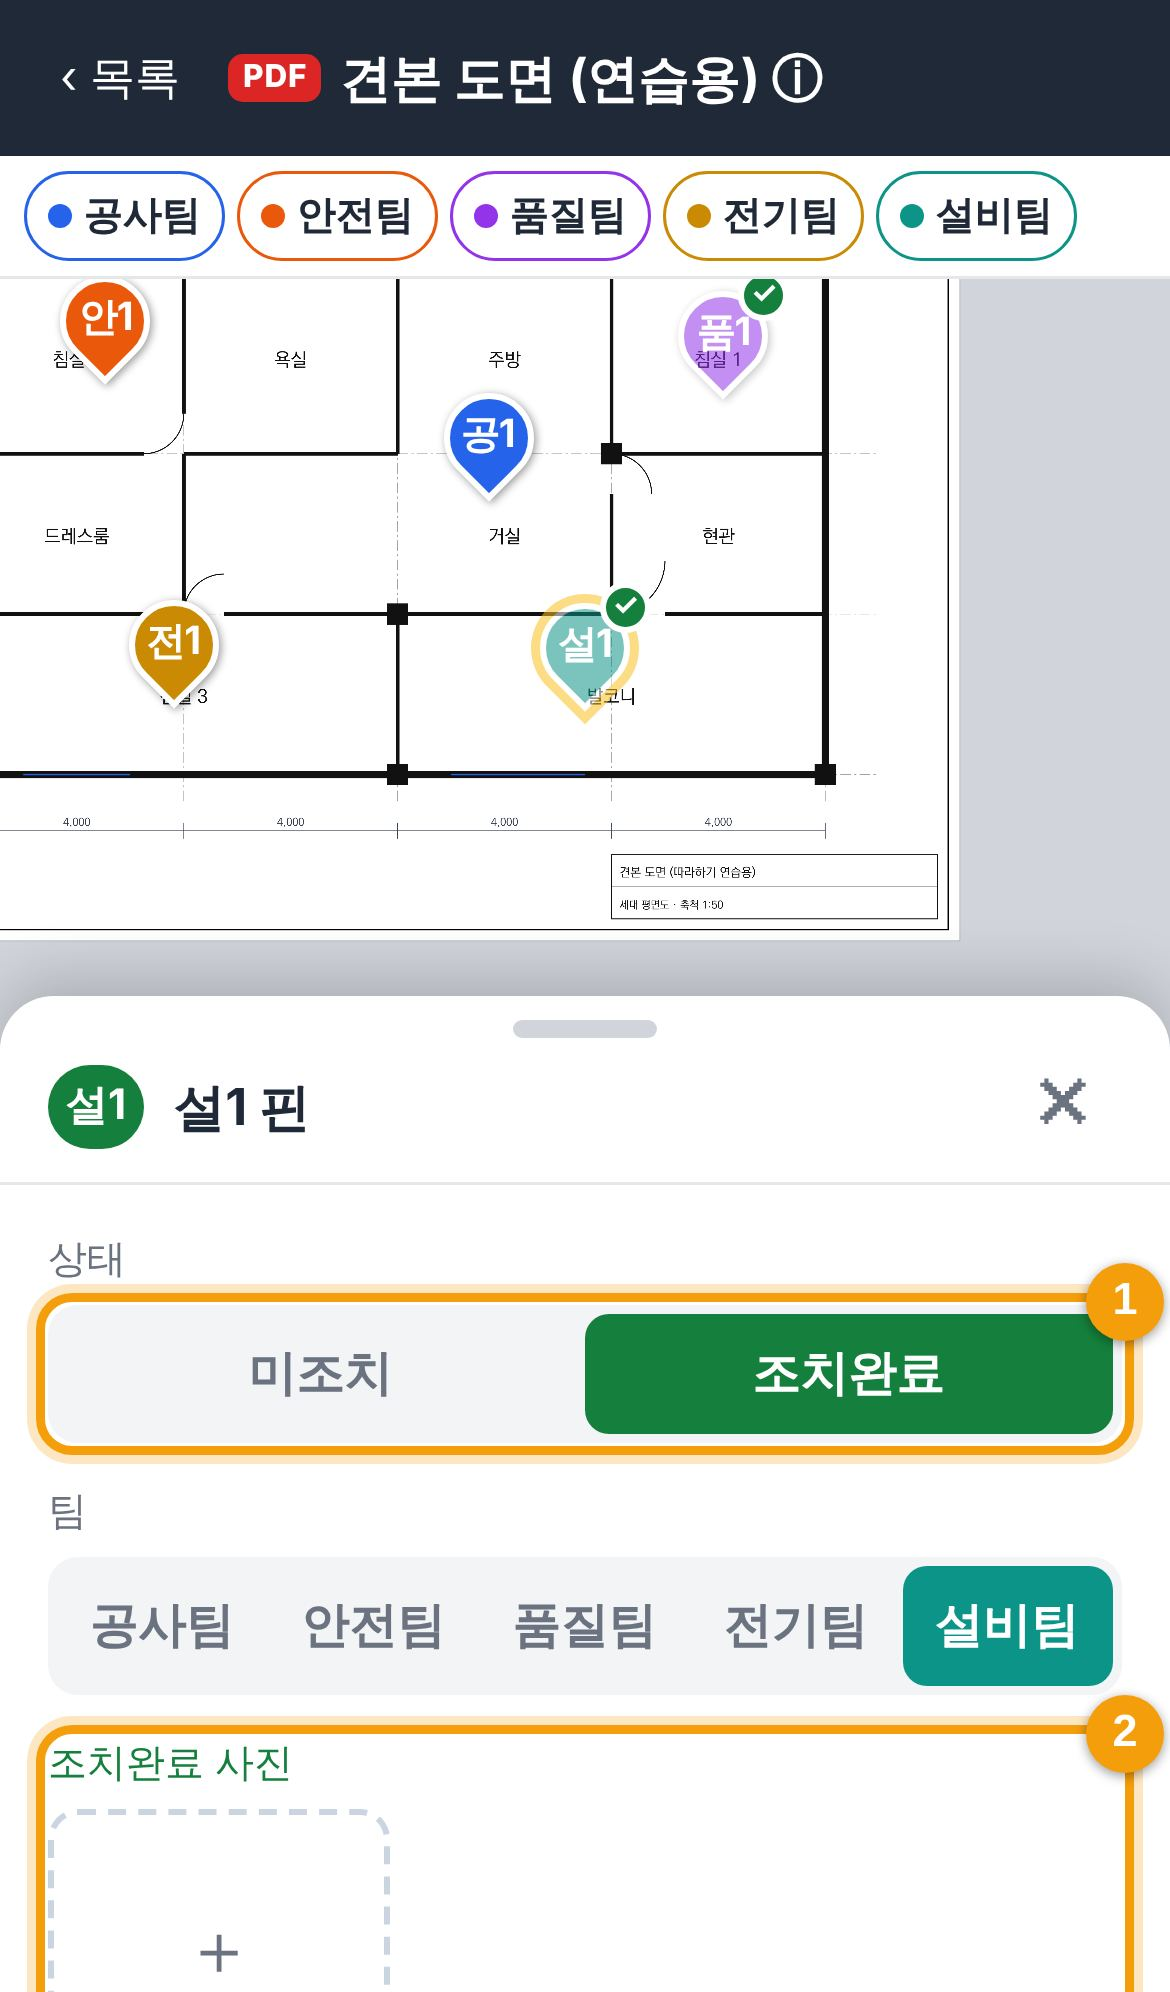
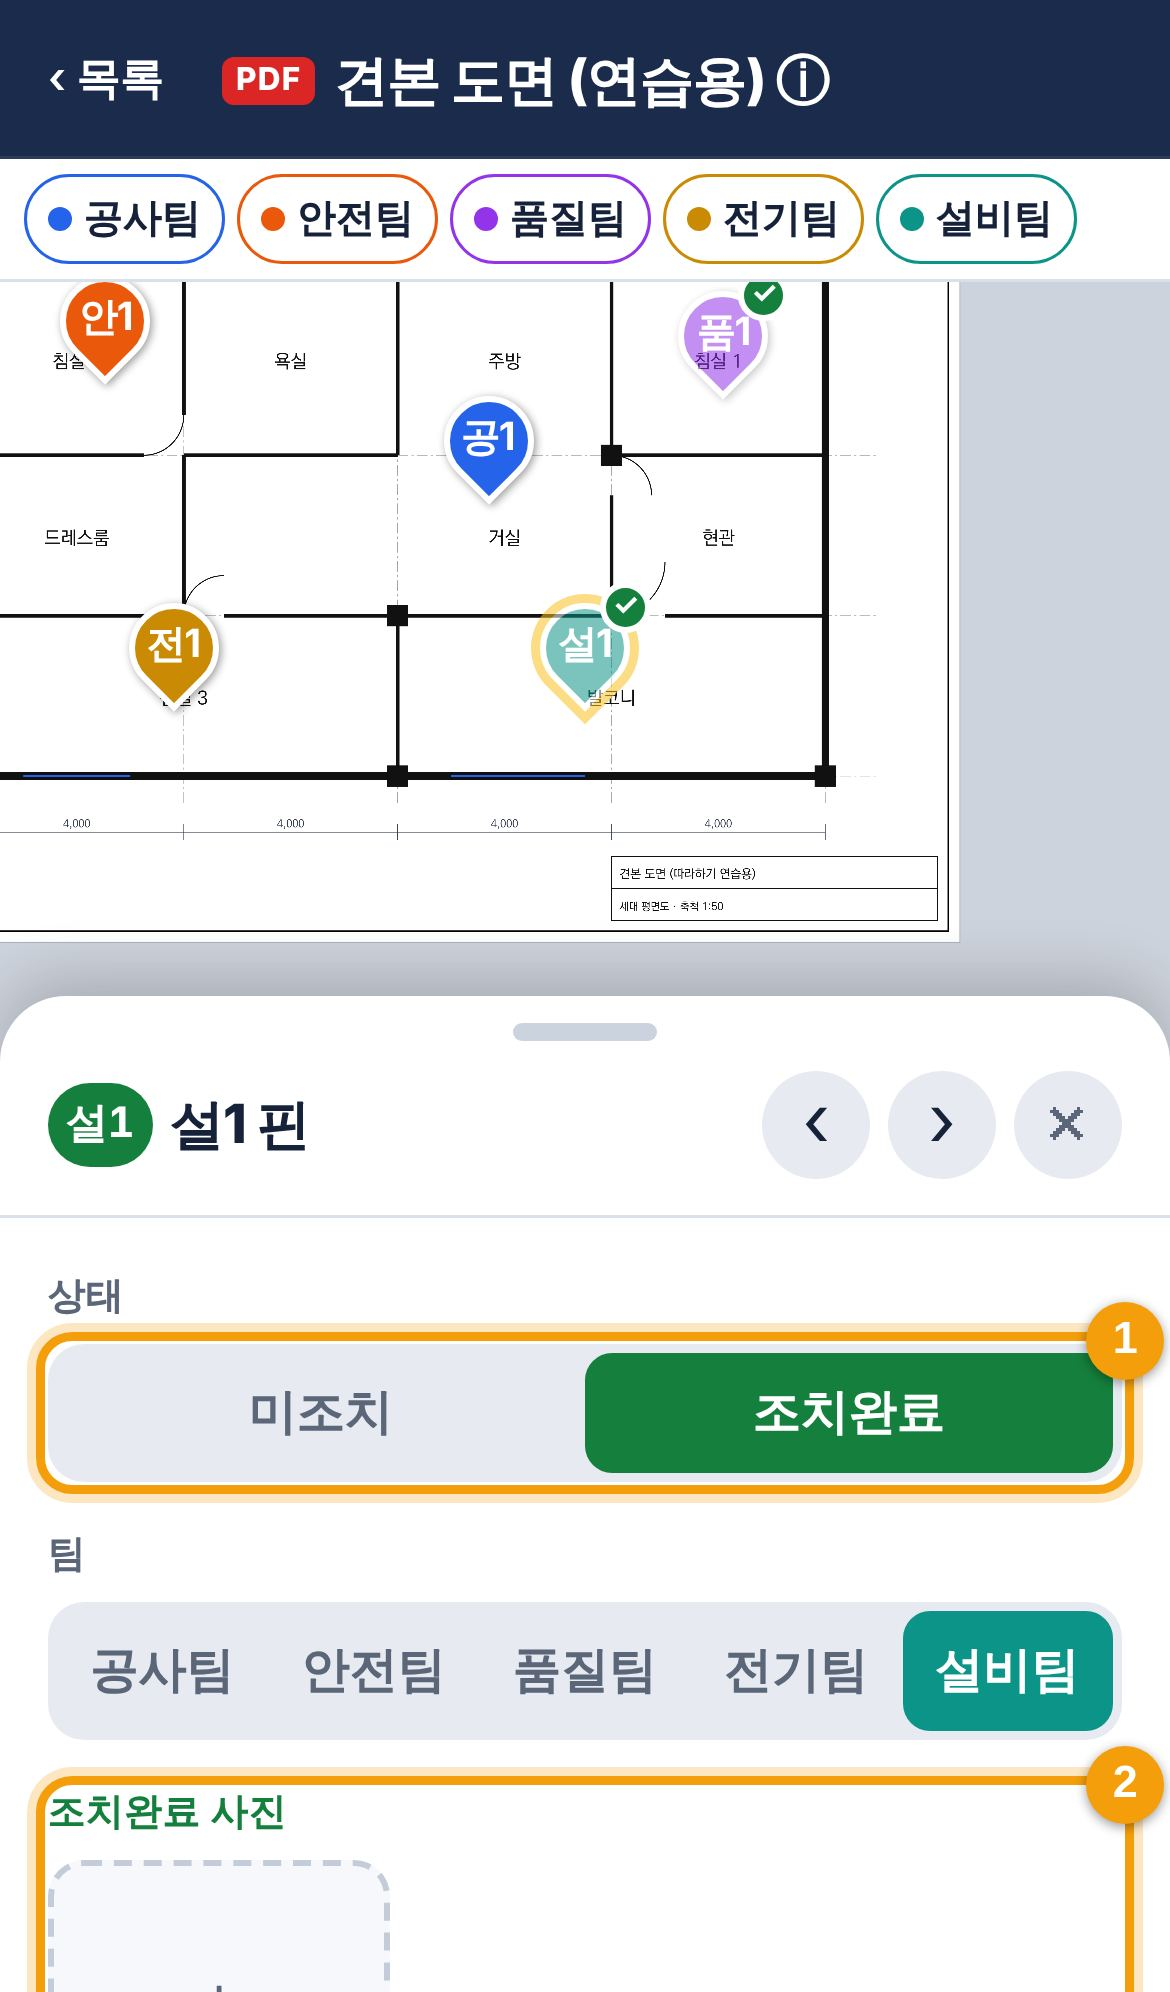
도면 핀: 디자인 다듬기 (3.18)
- 제도 용지 느낌의 색(푸른 종이색 바탕, 남색 잉크)과 첫 화면 모눈
- 도면 카드·버튼·아래 창·입력칸·선택 버튼(흰 손잡이) 정리, 숫자 고정폭
- 사용법 사진 새로 찍음

Claude-Session: https://claude.ai/code/session_01EtHbhsZCrxUT5zDHCagWW6

diff --git a/pins/index.html b/pins/index.html
@@ -7,12 +7,16 @@
 <link rel="manifest" href="manifest.webmanifest">
 <meta name="apple-mobile-web-app-capable" content="yes">
 <meta name="apple-mobile-web-app-title" content="도면 핀">
-<meta name="theme-color" content="#1F2937">
+<meta name="theme-color" content="#1B2B4B">
 <link rel="apple-touch-icon" href="icon-192.png">
 <style>
 :root{
-  --bg:#F2F2EE; --card:#fff; --ink:#1F2937; --sub:#6B7280; --line:#E5E7EB;
-  --open:#D3162F; --done:#15803D; --accent:#1F2937; --chip:#F3F4F6;
+  /* 도면 용지 느낌: 푸른 기가 도는 종이색 바탕 + 제도용 남색 잉크. 빨강·초록은 미조치·완료 상태에만 쓴다 */
+  --bg:#ECEFF3; --card:#fff; --ink:#16213A; --sub:#5B6779; --line:#DAE0E8;
+  --open:#D3162F; --done:#15803D; --accent:#1B2B4B; --chip:#E7EBF1;
+  --grid:rgba(27,43,75,.045); --soft:#F6F8FB; --ring:rgba(27,43,75,.28);
+  --sh1:0 1px 2px rgba(22,33,58,.06),0 2px 8px rgba(22,33,58,.05);
+  --sh2:0 6px 20px rgba(22,33,58,.16);
 }
 *{box-sizing:border-box;-webkit-tap-highlight-color:transparent}
 html,body{margin:0;height:100%;overflow:hidden;overscroll-behavior:none;touch-action:manipulation;background:var(--bg);color:var(--ink);
@@ -256,6 +260,70 @@ header .cloud[data-state="err"] i{background:#F87171}
 .arow .ck{font-size:12px;color:var(--accent);font-weight:600;flex:none}
 #vTitle{cursor:pointer}
 .exp p{color:var(--sub);font-size:14px;line-height:1.6;margin:4px 0}
+
+/* ---------- 3.18 디자인 다듬기 ---------- */
+body{letter-spacing:-.01em;-webkit-font-smoothing:antialiased}
+.cnt,.tcnt,.lpages,.dates,.li .t3,.dcard .sm,.pgbar .pgmid small,.appver,.imgpos,.badge{font-variant-numeric:tabular-nums}
+button:focus-visible,.inp:focus-visible,input:focus-visible{outline:2px solid var(--ring);outline-offset:2px}
+/* 머리줄 */
+header{background:var(--accent);box-shadow:inset 0 -1px 0 rgba(255,255,255,.08)}
+header h1{font-size:18px;font-weight:800;letter-spacing:-.02em}
+header .hbtn{font-size:14.5px;font-weight:600;padding:7px 11px;border-radius:999px;background:rgba(255,255,255,.08)}
+header .hbtn:active{background:rgba(255,255,255,.18)}
+header #backBtn{background:none;padding-left:4px}
+/* 첫 화면: 제도 용지 모눈 */
+#home main{background-color:var(--bg);background-image:linear-gradient(var(--grid) 1px,transparent 1px),linear-gradient(90deg,var(--grid) 1px,transparent 1px);background-size:24px 24px;padding-top:16px}
+.dcard{border:1px solid var(--line);border-radius:14px;padding:14px 8px 14px 16px;margin-bottom:10px;box-shadow:var(--sh1)}
+.dcard:active{background:var(--soft)}
+.dcard .nm{font-size:16.5px;font-weight:700;line-height:1.35;letter-spacing:-.02em}
+.dcard .sm{font-size:12.5px;margin-top:7px;line-height:1.6;word-break:keep-all}
+.dcard .more{width:40px;height:40px;padding:0;border-radius:50%;display:grid;place-items:center;font-size:18px;flex:none}
+.dcard .more:active{background:var(--chip)}
+.dcard.remote{background:var(--soft);border-style:dashed;box-shadow:none}
+.cnt{padding:2px 8px;border-radius:6px;font-size:12px;font-weight:700}
+.ftype{border-radius:4px;letter-spacing:.4px}
+.hfilter{background:var(--chip);border-radius:12px;padding:3px;gap:2px;margin:0 0 12px}
+.hfilter button{background:none;border-radius:9px;padding:8px 6px;font-size:14px}
+.hfilter button.on{background:var(--card);color:var(--ink);box-shadow:0 1px 3px rgba(22,33,58,.16)}
+.empty{line-height:1.8;font-size:15px}
+.fab{left:max(16px,env(safe-area-inset-left));right:max(16px,env(safe-area-inset-right));padding:16px;border-radius:16px;font-size:16px;font-weight:700;letter-spacing:-.01em;box-shadow:0 8px 22px rgba(27,43,75,.35)}
+.fab:active,.tourGo:active{transform:translateY(1px)}
+.tourGo{border-radius:14px;padding:14px}
+/* 도면 보기 */
+#vp{background:#CDD3DC}
+.teambar,.pgbar{border-bottom-color:var(--line)}
+.pgbar>button:not(.pgmid){border-radius:12px}
+.toolbar button{border-radius:16px;font-weight:700;background:rgba(255,255,255,.97);box-shadow:0 4px 14px rgba(22,33,58,.2),0 0 0 1px rgba(22,33,58,.06)}
+.toolbar button:active{background:var(--soft)}
+.modebar button{box-shadow:0 2px 8px rgba(22,33,58,.2)}
+.hint,.toast{background:rgba(22,33,58,.94);box-shadow:var(--sh2)}
+/* 아래 창 */
+.sheet-bg{background:rgba(16,24,40,.42)}
+.sheet{border-radius:22px 22px 0 0;box-shadow:0 -8px 28px rgba(22,33,58,.18)}
+.sheet .grab{background:#CBD3DE;margin-top:9px}
+.sheet .sh{padding:10px 16px 12px}
+.sheet .sh h2{font-size:18px;font-weight:800;letter-spacing:-.02em}
+.sheet .sb{padding:14px 16px 18px}
+.x{width:36px;height:36px;padding:0;border-radius:50%;background:var(--chip);font-size:16px;display:grid;place-items:center}
+.pnav{border-radius:50%;width:36px;height:36px}
+.lbl{font-size:12.5px;font-weight:700;color:var(--sub);letter-spacing:.02em;margin:16px 0 7px}
+.seg{border-radius:12px}
+.seg button{border-radius:9px}
+.seg button.on.a{background:var(--card);color:var(--ink);box-shadow:0 1px 3px rgba(22,33,58,.16)}
+.exp .seg button.on{background:var(--card);color:var(--ink);box-shadow:0 1px 3px rgba(22,33,58,.16)}
+.inp{background:var(--soft);border-color:var(--line);border-radius:12px;padding:11px 13px}
+.inp:focus{background:var(--card);border-color:var(--accent);outline:none;box-shadow:0 0 0 3px rgba(27,43,75,.12)}
+.photos .ph,.photos .add{border-radius:12px}
+.photos .add{border-color:#C3CCD8;background:var(--soft)}
+.row2 button{border-radius:14px;padding:13px}
+.exp a,.exp button{border-radius:14px}
+.alist{background:var(--soft);border:1px solid var(--line)}
+.exp button.arow{border-bottom-color:var(--line)}
+.arow .ic{background:var(--card);box-shadow:0 0 0 1px var(--line)}
+.li{padding:13px 0}
+.li .t1{font-weight:700}
+.badge{box-shadow:0 0 0 2px #fff}
+#tour .card{border-radius:18px}
 </style>
 </head>
 <body>
@@ -447,7 +515,7 @@ header .cloud[data-state="err"] i{background:#F87171}
 
 <script>
 "use strict";
-const APP_VER="3.17";
+const APP_VER="3.18";
 const $=s=>document.querySelector(s);
 /* 쪽 이름(예: 지하 4층). 없으면 여러 쪽일 때 'N쪽' */
 const pgName=(d,n)=>((d&&d.pageNames&&d.pageNames[n-1])||"").trim();

diff --git a/pins/sw.js b/pins/sw.js
@@ -1,5 +1,5 @@
 // 도면 하자 핀 앱: 오프라인에서도 열리도록 앱 파일을 저장해 둔다 (도면·핀 기록은 IndexedDB에 따로 저장됨)
-const CACHE="drawing-pins-v38";
+const CACHE="drawing-pins-v39";
 const FILES=["./","./index.html","./manifest.webmanifest","./icon-192.png","./icon-512.png","./dwg2pdf.js","./sample.pdf","../lib/pdfjs.min.js","../lib/pdfjs.worker.min.js","../lib/pdf-lib.min.js","../lib/fontkit.umd.min.js","../fonts/KoPubDotum-Medium.ttf"];
 self.addEventListener("install",e=>{e.waitUntil(caches.open(CACHE).then(c=>c.addAll(FILES.map(u=>new Request(u,{cache:"reload"})))));self.skipWaiting();});
 self.addEventListener("activate",e=>{e.waitUntil(caches.keys().then(ks=>Promise.all(ks.filter(k=>k.startsWith("drawing-pins-")&&k!==CACHE).map(k=>caches.delete(k)))));self.clients.claim();});
